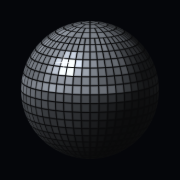
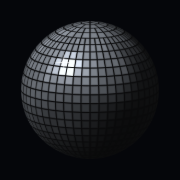
Atualiza assets visuais (redesign 3) e versão de cache para v31/?v=14
Incorpora os ícones e selos reexportados pelo usuário (disco, selo
Cancio Club e variantes transparentes) e sobe a versão de cache-busting
em lockstep (PWA CACHE_NAME v30->v31, query string ?v=13->?v=14 em
todas as referências de ícone/selo).

Claude-Session: https://claude.ai/code/session_01Tazd8AKZXtwHgg5MZusDvG

Changed region(s): [[0.1111, 0.4167, 0.6389, 0.5278]]

diff --git a/src/styles/tokens.js b/src/styles/tokens.js
@@ -79,7 +79,7 @@ const FEEDBACK_QUESTIONS = [
     "Como foi o pique hoje?", "Valeu o esforço? Conta pra gente.", "Missão cumprida! Como foi?",
     "Como está se sentindo depois do treino?", "Deixa aqui como foi o seu treino.",
 ];
-const BALL_URL = "selo-bola-transparente.png?v=13";
+const BALL_URL = "selo-bola-transparente.png?v=14";
 // pontinhos de brilho fixos (sem jitter entre renders) ao redor da bola — assinatura "disco club"
 const SPARKLE_SPOTS = [
     { x: -6, y: 4, delay: 0, size: 5 },
@@ -95,7 +95,7 @@ const MIRROR_GRID = (px) => `linear-gradient(90deg,#05060A ${px * 0.17}px,transp
 // baixa/exibe uma imagem, sem gastar tempo de CPU redesenhando a bola toda vez.
 // (nome anterior apontava para "selo-cancio-club-transparente.png", um arquivo que nunca
 // chegou a existir no projeto — por isso o selo parava de aparecer/baixar.)
-const SELO_URL = "selo-cancio-club.png?v=13";
+const SELO_URL = "selo-cancio-club.png?v=14";
 // versão só-a-bola, fundo transparente, sem o texto "CANCIO CLUB" — usada como selo decorativo
 // dentro dos cards de compartilhamento (a marca com texto completo fica só no LogoCard)
 const SEAL_MARK_URL = BALL_URL;

diff --git a/index.html b/index.html
@@ -6,8 +6,8 @@
 <meta name="theme-color" content="#000000" />
 <title>Cancio Club</title>
 <link rel="manifest" href="/manifest.json" />
-<link rel="icon" href="/favicon-32.png?v=13" sizes="32x32" type="image/png" />
-<link rel="apple-touch-icon" href="/apple-touch-icon-180.png?v=13" />
+<link rel="icon" href="/favicon-32.png?v=14" sizes="32x32" type="image/png" />
+<link rel="apple-touch-icon" href="/apple-touch-icon-180.png?v=14" />
 <meta name="apple-mobile-web-app-capable" content="yes" />
 <meta name="apple-mobile-web-app-status-bar-style" content="black-translucent" />
 <meta name="apple-mobile-web-app-title" content="Cancio" />
@@ -39,7 +39,7 @@
     <div style="position:relative;width:96px;height:96px;">
       <div class="cc-boot-glow"></div>
       <div class="cc-boot-ring"></div>
-      <img src="/icon-512.png?v=13" alt="" width="96" height="96" style="width:96px;height:96px;display:block;position:relative;border-radius:50%;" />
+      <img src="/icon-512.png?v=14" alt="" width="96" height="96" style="width:96px;height:96px;display:block;position:relative;border-radius:50%;" />
     </div>
   </div>
 </div>

diff --git a/src/sw.js b/src/sw.js
@@ -13,7 +13,7 @@
 //   Isso teria que ficar sempre fresco da rede — cachear resultaria em ver
 //   dados desatualizados até muito tempo depois de a internet voltar.
 
-const CACHE_NAME = "cancio-club-v30";
+const CACHE_NAME = "cancio-club-v31";
 
 // self.__WB_MANIFEST é substituído em build time (vite-plugin-pwa, strategy "injectManifest")
 // pela lista real de assets com hash ([{url, revision}, ...]) — por isso o pré-cache não precisa
